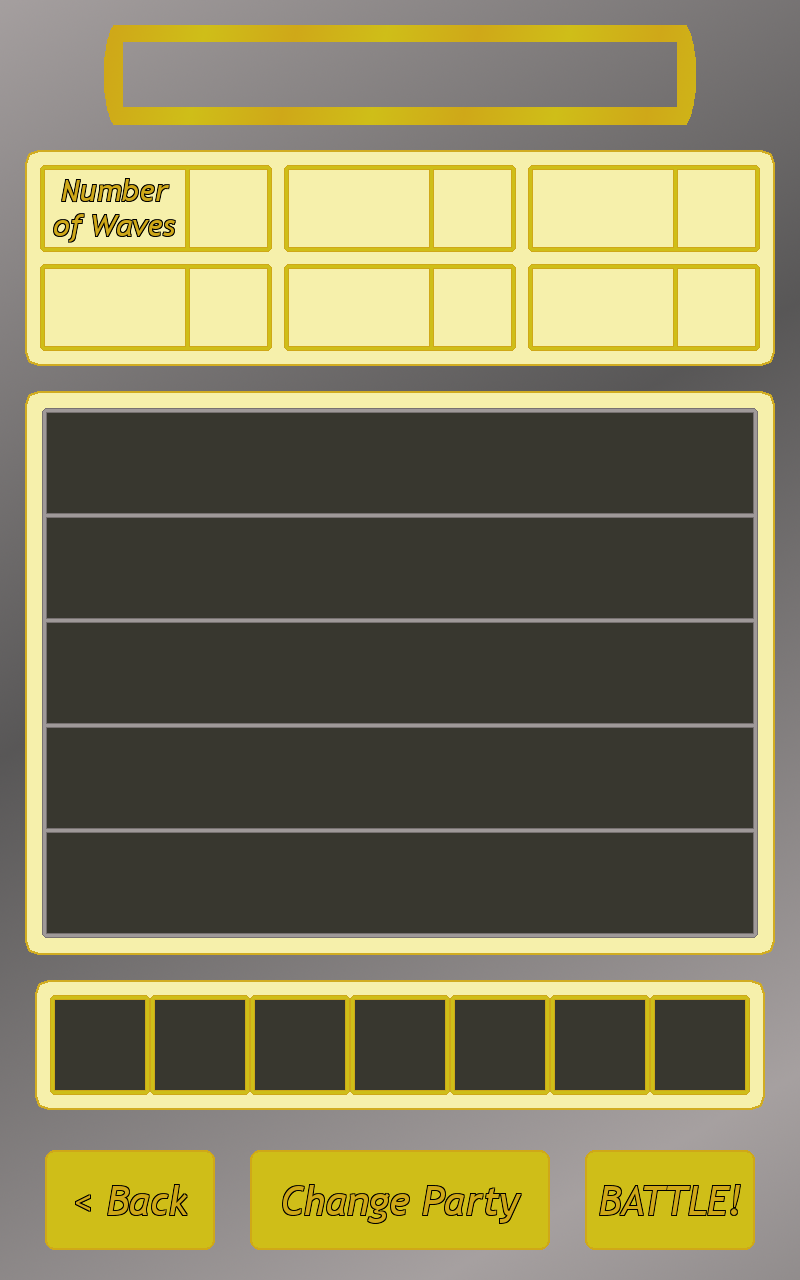
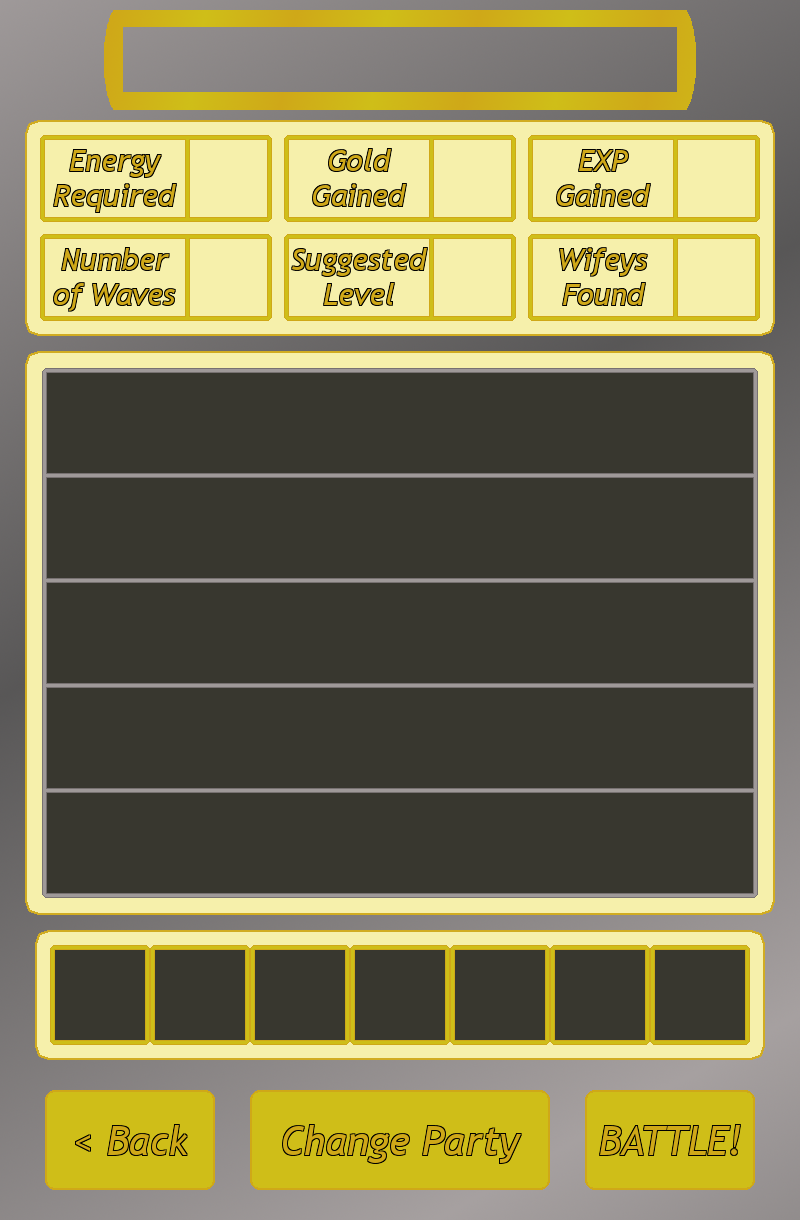
Modified Battle Info Screen to hold upcoming header

diff --git a/app/src/main/java/ultrapoulet/wifeygame/screens/BattleInfoScreen.java b/app/src/main/java/ultrapoulet/wifeygame/screens/BattleInfoScreen.java
@@ -40,12 +40,14 @@ public class BattleInfoScreen extends Screen{
 
     private List<WifeyCharacter> party;
 
+    private static final int BACKGROUND_OFFSET = 60;
+
     private static final int BATTLE_NAME_X = 400;
-    private static final int BATTLE_NAME_Y = 92;
+    private static final int BATTLE_NAME_Y = 137;
     private Paint battlePaint;
 
     private static final int NUMBER_WAVES_X = 228;
-    private static final int NUMBER_WAVES_Y = 228;
+    private static final int NUMBER_WAVES_Y = 357;
     private Paint wavesPaint;
 
     private static final int PARTY_SCALE = 57;
@@ -54,9 +56,9 @@ public class BattleInfoScreen extends Screen{
     private static final int REQUIREMENT_LEFT_X = 47;
     private static final int REQUIREMENT_RIGHT_X = 752;
     private static final int REQUIREMENT_WIDTH = REQUIREMENT_RIGHT_X - REQUIREMENT_LEFT_X - 200;
-    private static final int REQUIREMENT_BASE_TOP_Y = 413;
-    private static final int REQUIREMENT_BASE_BOT_Y = 512;
-    private static final int REQUIREMENT_BASE_TEXT_Y = 485;
+    private static final int REQUIREMENT_BASE_TOP_Y = 433;
+    private static final int REQUIREMENT_BASE_BOT_Y = 532;
+    private static final int REQUIREMENT_BASE_TEXT_Y = 505;
     private static final int REQUIREMENT_OFFSET_Y = 105;
     private TextPaint requirementPaint;
 
@@ -88,8 +90,8 @@ public class BattleInfoScreen extends Screen{
     private static final int PARTY_IMAGE_BASE_LEFT_X = 55;
     private static final int PARTY_IMAGE_BASE_RIGHT_X = 145;
     private static final int PARTY_IMAGE_OFFSET_X = 100;
-    private static final int PARTY_IMAGE_TOP_Y = 1000;
-    private static final int PARTY_IMAGE_BOT_Y = 1090;
+    private static final int PARTY_IMAGE_TOP_Y = 1010;
+    private static final int PARTY_IMAGE_BOT_Y = 1100;
 
     private ArrayList<Image> partyImages;
 
@@ -202,7 +204,7 @@ public class BattleInfoScreen extends Screen{
         Graphics g = game.getGraphics();
         g.clearScreen(0xFFFFFFFF);
 
-        g.drawImage(background, 0, 0);
+        g.drawImage(background, 0, BACKGROUND_OFFSET);
 
         g.drawString(battleInfo.getName(), BATTLE_NAME_X, BATTLE_NAME_Y, battlePaint);
 
